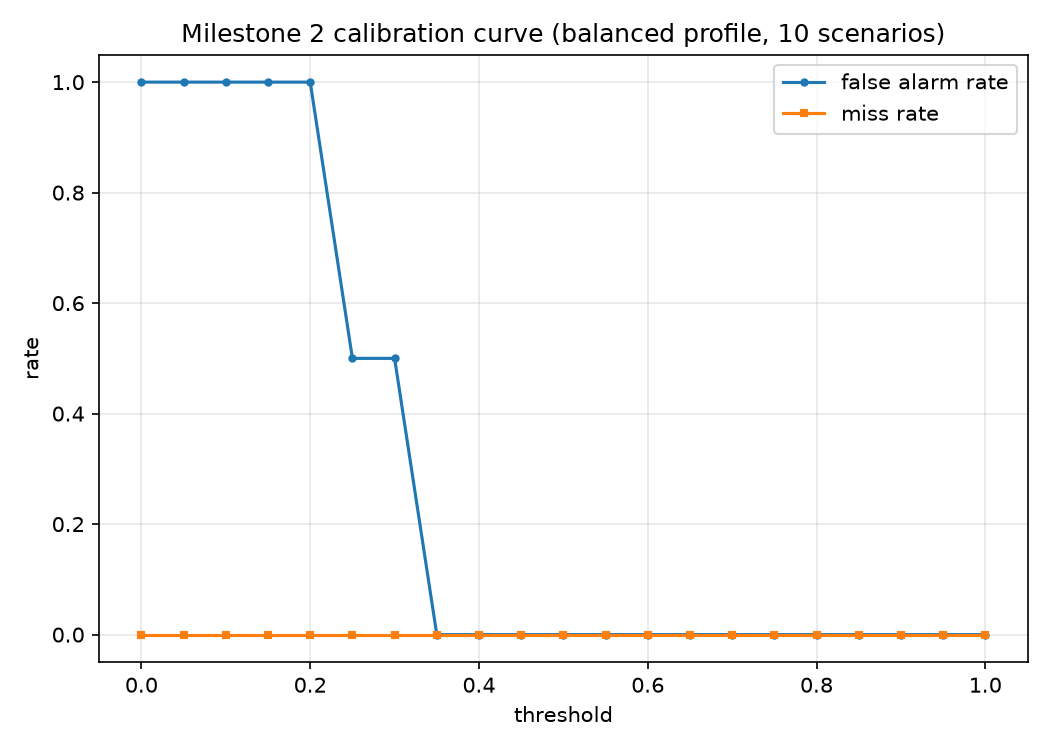
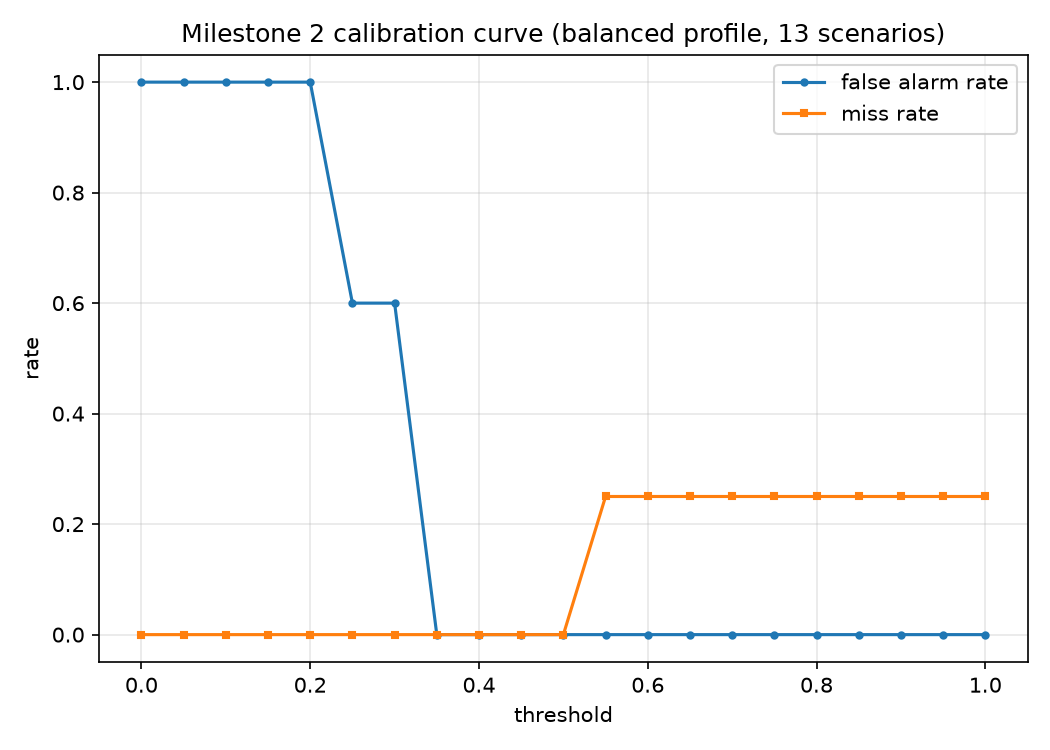
Regenerate Milestone 2 calibration report for 13 scenarios

diff --git a/reports/m2/report.md b/reports/m2/report.md
@@ -1,29 +1,29 @@
-# Milestone 2 calibration curve (balanced profile, 10 scenarios)
+# Milestone 2 calibration curve (balanced profile, 13 scenarios)
 
-Scenarios: 10 | Threshold points: 21
+Scenarios: 13 | Threshold points: 21
 
 ![calibration curve](calibration_curve.png)
 
 | threshold | false_alarm_rate | miss_rate | accuracy | TP | TN | FA | miss |
 |---|---|---|---|---|---|---|---|
-| 0.00 | 100% | 0% | 60% | 6 | 0 | 4 | 0 |
-| 0.05 | 100% | 0% | 60% | 6 | 0 | 4 | 0 |
-| 0.10 | 100% | 0% | 60% | 6 | 0 | 4 | 0 |
-| 0.15 | 100% | 0% | 60% | 6 | 0 | 4 | 0 |
-| 0.20 | 100% | 0% | 60% | 6 | 0 | 4 | 0 |
-| 0.25 | 50% | 0% | 80% | 6 | 2 | 2 | 0 |
-| 0.30 | 50% | 0% | 80% | 6 | 2 | 2 | 0 |
-| 0.35 | 0% | 0% | 100% | 6 | 4 | 0 | 0 |
-| 0.40 | 0% | 0% | 100% | 6 | 4 | 0 | 0 |
-| 0.45 | 0% | 0% | 100% | 6 | 4 | 0 | 0 |
-| 0.50 | 0% | 0% | 100% | 6 | 4 | 0 | 0 |
-| 0.55 | 0% | 0% | 100% | 6 | 4 | 0 | 0 |
-| 0.60 | 0% | 0% | 100% | 6 | 4 | 0 | 0 |
-| 0.65 | 0% | 0% | 100% | 6 | 4 | 0 | 0 |
-| 0.70 | 0% | 0% | 100% | 6 | 4 | 0 | 0 |
-| 0.75 | 0% | 0% | 100% | 6 | 4 | 0 | 0 |
-| 0.80 | 0% | 0% | 100% | 6 | 4 | 0 | 0 |
-| 0.85 | 0% | 0% | 100% | 6 | 4 | 0 | 0 |
-| 0.90 | 0% | 0% | 100% | 6 | 4 | 0 | 0 |
-| 0.95 | 0% | 0% | 100% | 6 | 4 | 0 | 0 |
-| 1.00 | 0% | 0% | 100% | 6 | 4 | 0 | 0 |
+| 0.00 | 100% | 0% | 62% | 8 | 0 | 5 | 0 |
+| 0.05 | 100% | 0% | 62% | 8 | 0 | 5 | 0 |
+| 0.10 | 100% | 0% | 62% | 8 | 0 | 5 | 0 |
+| 0.15 | 100% | 0% | 62% | 8 | 0 | 5 | 0 |
+| 0.20 | 100% | 0% | 62% | 8 | 0 | 5 | 0 |
+| 0.25 | 60% | 0% | 77% | 8 | 2 | 3 | 0 |
+| 0.30 | 60% | 0% | 77% | 8 | 2 | 3 | 0 |
+| 0.35 | 0% | 0% | 100% | 8 | 5 | 0 | 0 |
+| 0.40 | 0% | 0% | 100% | 8 | 5 | 0 | 0 |
+| 0.45 | 0% | 0% | 100% | 8 | 5 | 0 | 0 |
+| 0.50 | 0% | 0% | 100% | 8 | 5 | 0 | 0 |
+| 0.55 | 0% | 25% | 85% | 6 | 5 | 0 | 2 |
+| 0.60 | 0% | 25% | 85% | 6 | 5 | 0 | 2 |
+| 0.65 | 0% | 25% | 85% | 6 | 5 | 0 | 2 |
+| 0.70 | 0% | 25% | 85% | 6 | 5 | 0 | 2 |
+| 0.75 | 0% | 25% | 85% | 6 | 5 | 0 | 2 |
+| 0.80 | 0% | 25% | 85% | 6 | 5 | 0 | 2 |
+| 0.85 | 0% | 25% | 85% | 6 | 5 | 0 | 2 |
+| 0.90 | 0% | 25% | 85% | 6 | 5 | 0 | 2 |
+| 0.95 | 0% | 25% | 85% | 6 | 5 | 0 | 2 |
+| 1.00 | 0% | 25% | 85% | 6 | 5 | 0 | 2 |
